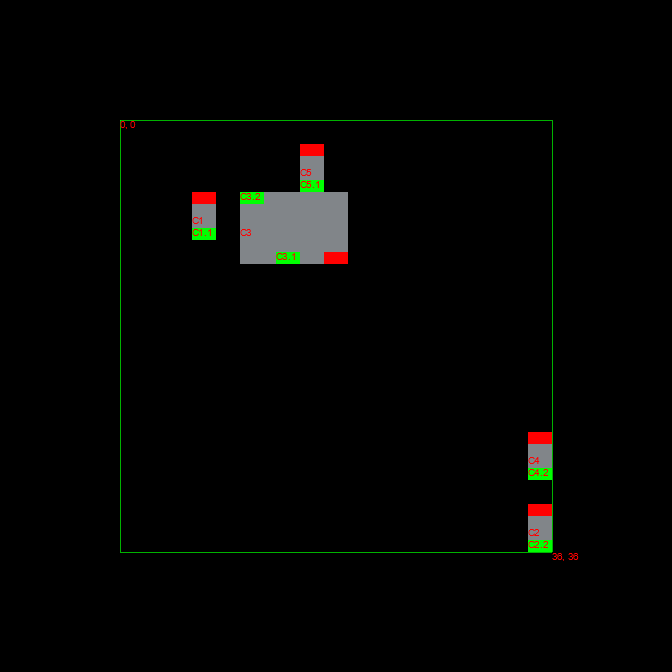
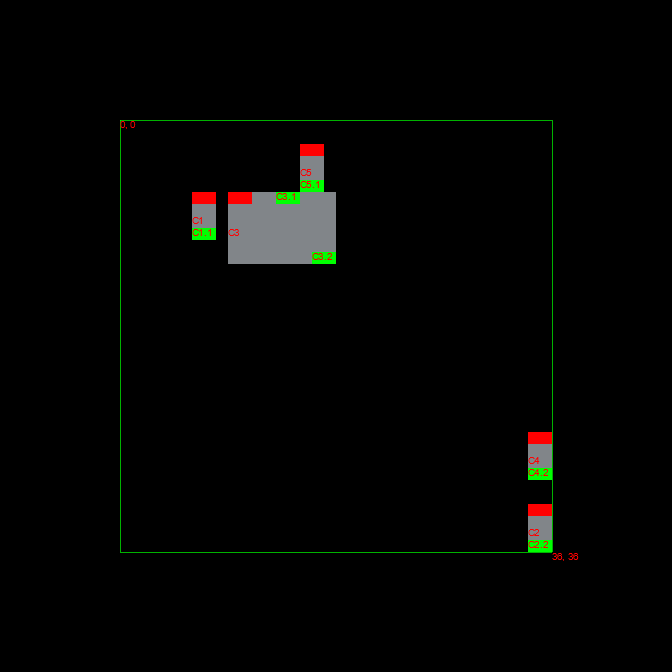
add gooder testing

Changed region(s): [[0.3125, 0.2812, 0.4688, 0.4062], [0.4062, 0.2812, 0.5312, 0.4062]]

diff --git a/pcb-layout/src/main.rs b/pcb-layout/src/main.rs
@@ -1,4 +1,5 @@
 use std::{cmp::Ordering, process::ChildStdin, vec};
+use std::time::Instant;
 mod plcmnt;
 use num::ToPrimitive;
 use plcmnt::{hpwl, is_valid, Bbox, Component, Placement, Pin, placement_area};
@@ -294,12 +295,19 @@ fn main() -> Result<(), Box<dyn std::error::Error>>{
     //for i in 1..2000{ c1.rotate_comp(90);};
     let pl_width = placement_area.get_width();
     let pl_height = placement_area.get_height();
-    let comps: Vec<Component> = vec![c1,c2,c3,c4,c5];
+    c3.rotate_comp(180);
+    //c3.rotate_comp(90);
+    let comps: Vec<Component> = vec![c1, c2,c3,c4, c5];
+    
     let pl = Placement {
         components: comps,
         placement_area: placement_area,
     };
-    let test_cases: Vec<(usize, i32)> = vec![(10, 10000), (20, 5000), (50,2000), (100,1000)];
+    let pl_2 = pl.clone();
+    let  id2 = Individual::new(pl_2);
+    id2.plot("0.png");
+    
+    let test_cases: Vec<(usize, i32)> = vec![(10, 100000), (20, 50000), (50,20000), (100,10000), (200, 5000)];
     for i in test_cases{
 
         let mut population: Vec<Individual> = Vec::new();
@@ -318,8 +326,9 @@ fn main() -> Result<(), Box<dyn std::error::Error>>{
         //backend.draw_rect((50, 50), (200, 150), &RED, true)?;
         let mut id = &mut population[0];
         id.plot("0.png");
-    
+        println!("{}", format!("+++++++Test (Population Size: {} , Generations {}) +++++++", pop_size, i.1).green());
         println!("Original Score: {}", id.score());
+        let now = Instant::now();
         //id.swap(1, 3);
         //id.rotate(1, 90);
         for _ in 0..i.1 {
@@ -344,14 +353,16 @@ fn main() -> Result<(), Box<dyn std::error::Error>>{
         /*
         */
         let mut id = &mut population[0];
-        //let mut id2 = &mut population[1];
-        //println!("{}",(c1.string()))
-        //println!("{:?}", id.comp_list);
         println!("New Score: {}", id.score());
-        //println!("{}", is_valid(&id.comp_list));
     
-        id.plot("1.png");
+        id.plot(&format!("test-{}x{}.png", pop_size, i.1));
+        let elapsed_time = now.elapsed();
+        println!("Test took {}.{} seconds.",elapsed_time.as_secs(), elapsed_time.subsec_millis());
+        println!("![{}]({})",&format!("test-{}x{}.png", pop_size, i.1),&format!("test-{}x{}.png", pop_size, i.1) );
+        println!("{}", format!("+++++++Test Over+++++++").green());
+        println!("");
     }
     
+    /* */
     Ok(())
 }

diff --git a/pcb-layout/src/plcmnt.rs b/pcb-layout/src/plcmnt.rs
@@ -103,7 +103,7 @@ impl Bbox {
         self.y1 = if ll.1 < ur.1{ ll.1} else { ur.1};
         self.x2 =  if ll.0 > ur.0{ ll.0} else { ur.0};
         self.y2 = if ll.1 > ur.1{ ll.1} else { ur.1};
-        self.recenter();
+        //self.recenter();
     }
     pub fn rotate_around_point(&mut self, angle_degrees: f64, centerx:i32, centery:i32)  {
         self.recenter();
@@ -216,6 +216,7 @@ impl Component {
         for pin in &mut self.pins{
             pin.bbox.rotate_around_point(delta.as_f64(), self.bbox.centerx, self.bbox.centery);
         }
+        self.bbox.recenter();
     }
     pub fn get_width(&self) -> usize {
         return self.bbox.get_width();
@@ -264,14 +265,18 @@ pub fn hpwl(comps: & Vec<Component>) -> u32 {
     let mut min_y = 100000;
     let mut pin_by_node: BTreeMap<i32, Vec<&Pin>> = BTreeMap::new();
     let mut total_wl = 0;
+    let ignore_gnd = true;
     for i in comps {
         for pin in &i.pins{
+            if ignore_gnd && pin.net != 0{
+
             if pin_by_node.contains_key(&pin.net){
                 let new_vec =pin_by_node.get_mut(&pin.net).unwrap();
                 new_vec.push(pin);
                 //pin_by_node.insert(pin.net, new_vec);
             }else{
                 pin_by_node.insert(pin.net, vec![pin]);
+            }
             }
         }
     }
